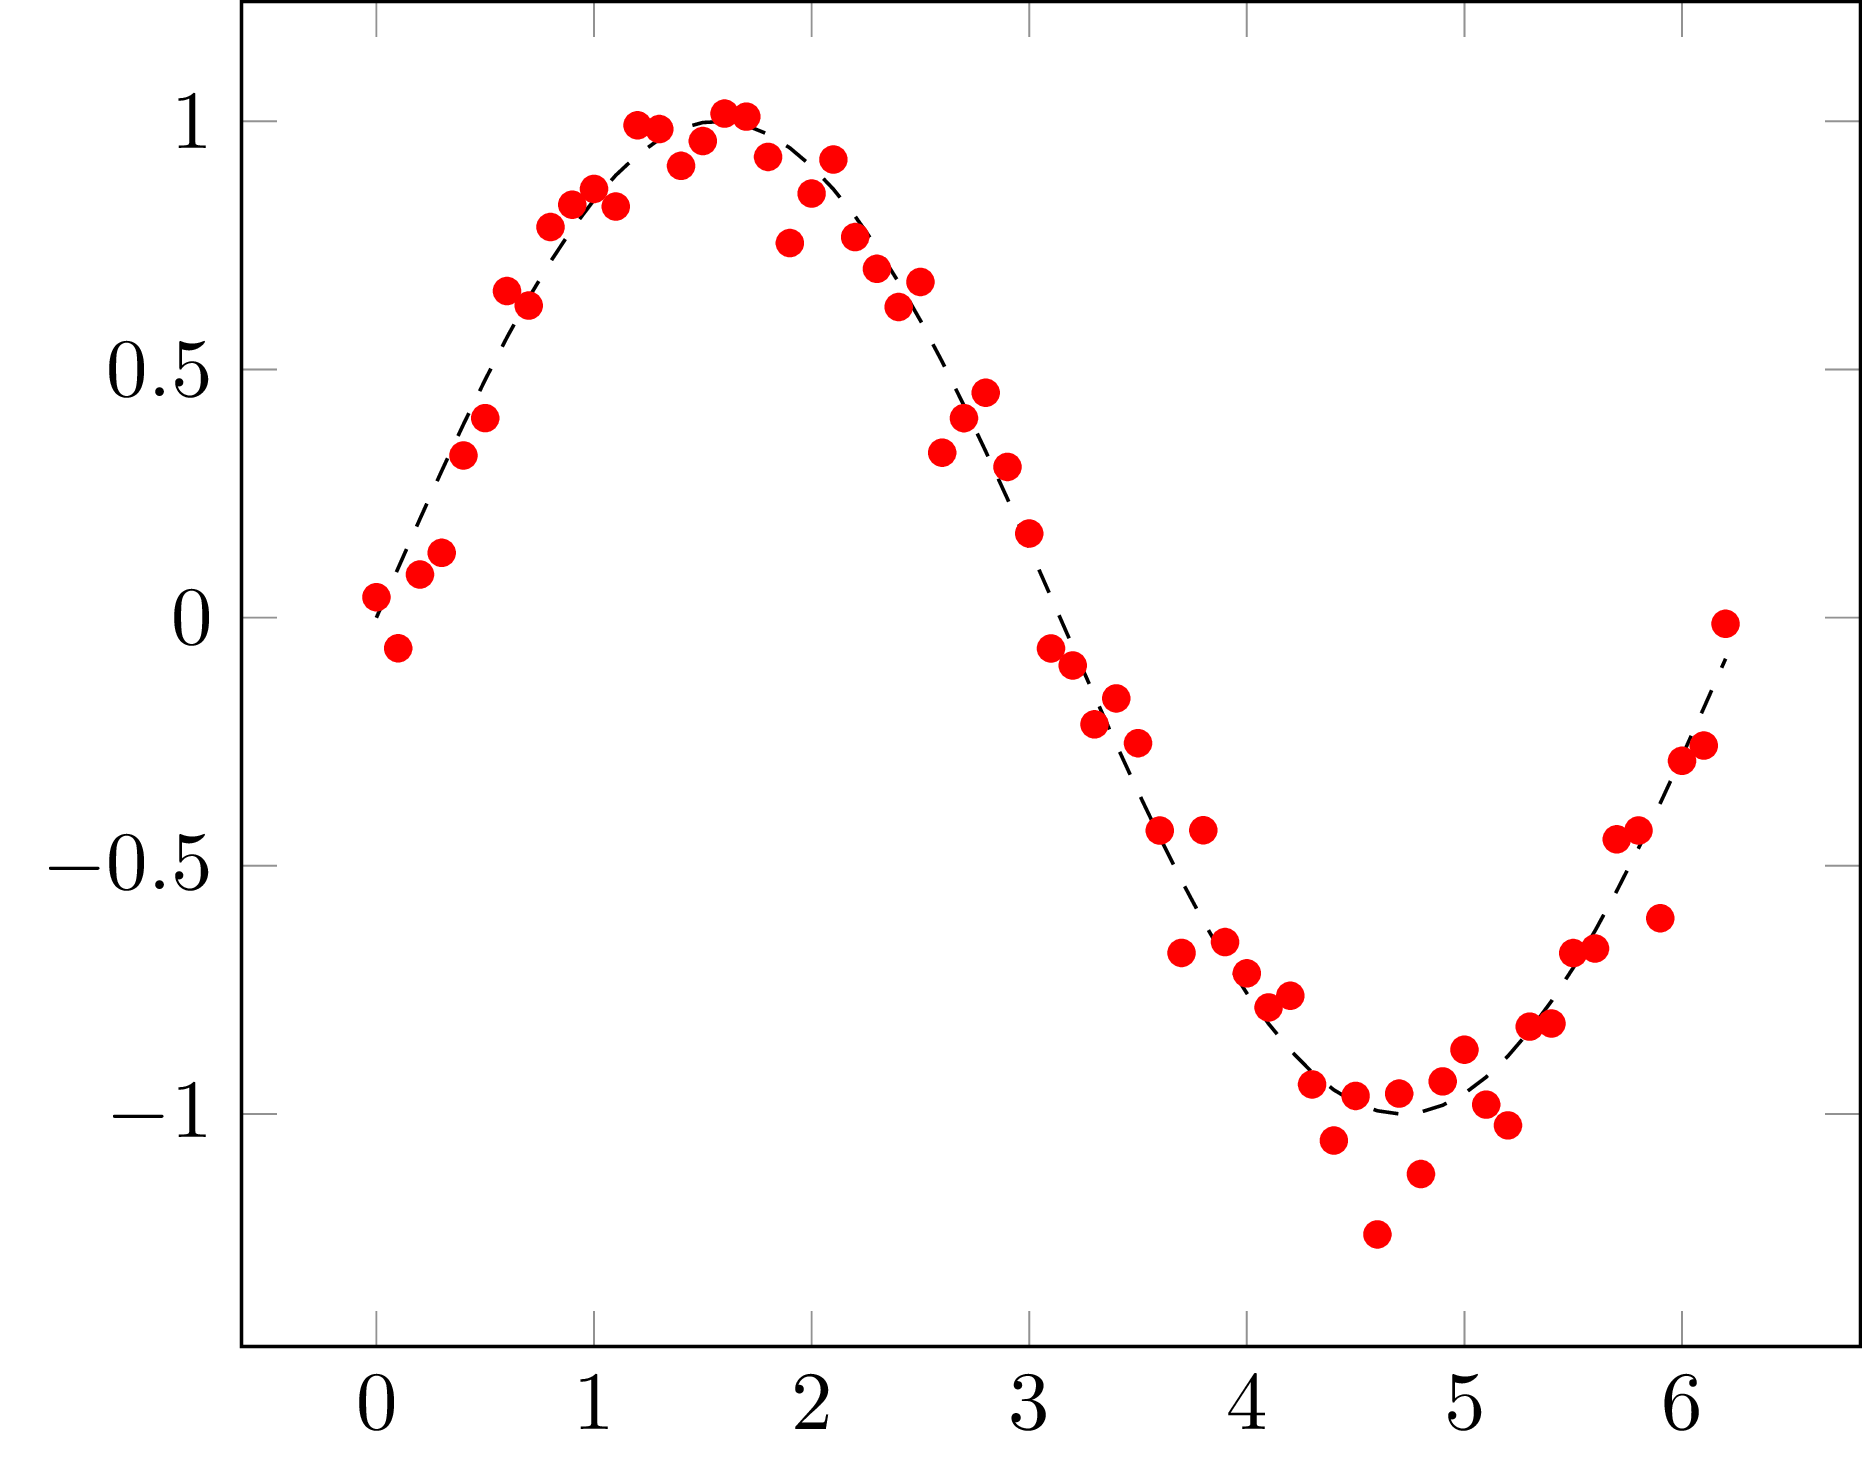
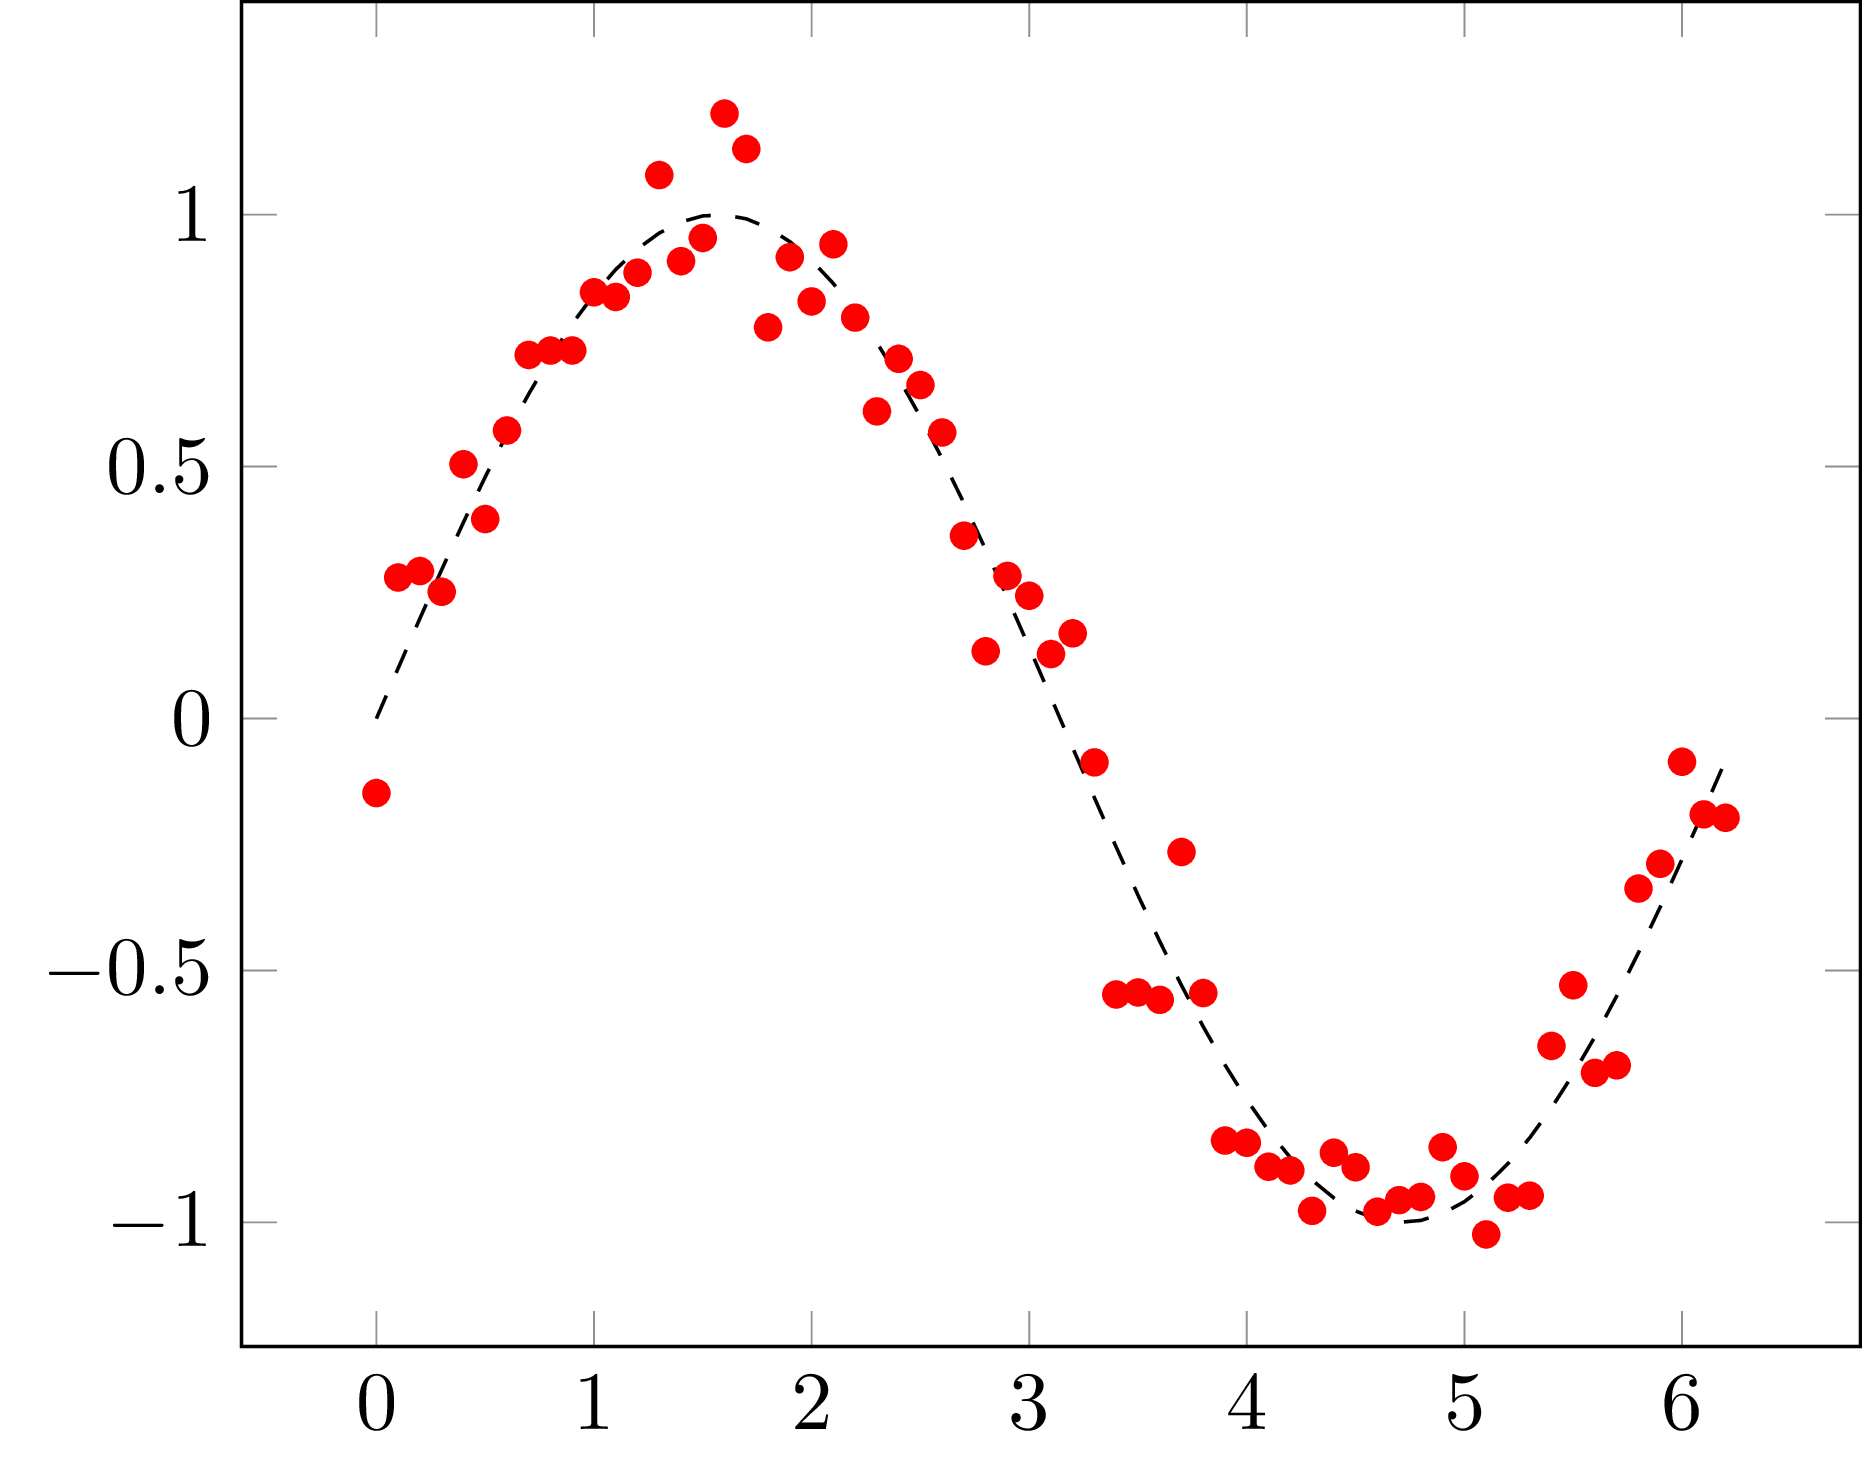
mesh plots and docs updates

diff --git a/docs/examples.md b/docs/examples.md
@@ -4,11 +4,11 @@ Lets create a sine vs cosine plot:
 
 ```scala
 import math._
-import scalatikz.graphics.pgf.Figure
-import scalatikz.graphics.pgf.enums.LegendPos.SOUTH_WEST
-import scalatikz.graphics.pgf.enums.LineStyle.DASHED
+import scalatikz.pgf.plots.Figure
+import scalatikz.pgf.plots.enums.LegendPos.SOUTH_WEST
+import scalatikz.pgf.plots.enums.LineStyle.DASHED
 
-val domain = -2 * Pi to 2 * Pi by 0.1
+val domain = BigDecimal(-2 * Pi) to BigDecimal(2 * Pi) by 0.1
 
 Figure("sin_vs_cosine")
   .plot(domain -> sin _)
@@ -27,21 +27,21 @@ Lets create a plot of Gaussian distributions:
 
 ```scala
 import math._
-import scalatikz.graphics.pgf.Figure
-import scalatikz.graphics.pgf.enums.Color.{BLACK, BLUE, GREEN, RED, YELLOW}
-import scalatikz.graphics.pgf.enums.FontSize.FOOTNOTE
-import scalatikz.graphics.pgf.enums.LegendPos.NORTH_EAST
+import scalatikz.pgf.plots.Figure
+import scalatikz.pgf.plots.enums.Color.{ BLACK, BLUE, GREEN, RED, YELLOW }
+import scalatikz.pgf.plots.enums.FontSize.FOOTNOTE
+import scalatikz.pgf.plots.enums.LegendPos.NORTH_EAST
 
 def gaussian(mean: Double, variance: Double)(x: Double): Double =
     1 / sqrt(2 * Pi * variance) * exp( -pow(x - mean, 2) / (2 * variance))
 
-val x = -5.0 to 5.0 by 0.1
+val x = BigDecimal(-5) to BigDecimal(5) by 0.1
 
 Figure("gaussian")
-  .plot(color = BLUE, smooth = true)(x -> gaussian(0, 0.2) _)
-  .plot(color = RED)(x -> gaussian(0, 1) _)
-  .plot(color = YELLOW!70!BLACK)(x -> gaussian(0, 5) _)
-  .plot(color = GREEN)(x -> gaussian(-2, 0.5) _)
+  .plot(lineColor = BLUE, smooth = true)(x -> gaussian(0, 0.2) _)
+  .plot(lineColor = RED)(x -> gaussian(0, 1) _)
+  .plot(lineColor = YELLOW!70!BLACK)(x -> gaussian(0, 5) _)
+  .plot(lineColor = GREEN)(x -> gaussian(-2, 0.5) _)
   .havingXLabel("$X$")
   .havingXLimits(-5, 5)
   .havingMajorGridOn
@@ -63,10 +63,10 @@ Lets plot an area:
 
 ```scala
 import math._
-import scalatikz.graphics.pgf.Figure
-import scalatikz.graphics.pgf.enums.LineSize.VERY_THIN
+import scalatikz.pgf.plots.Figure
+import scalatikz.pgf.plots.enums.LineSize.VERY_THIN
 
-val xx = 0.0 to 1.0 by 0.01
+val xx = BigDecimal(0) to BigDecimal(1) by 0.01
 
 Figure("area")
   .area(lineSize = VERY_THIN, opacity = 0.2) {
@@ -81,17 +81,17 @@ Lets plot a line and then plot a scatter of points along the line:
 ```scala
 import math._
 import scala.util.Random
-import scalatikz.graphics.pgf.Figure
-import scalatikz.graphics.pgf.enums.Color.{BLACK, RED}
-import scalatikz.graphics.pgf.enums.LineStyle.DASHED
+import scalatikz.pgf.plots.Figure
+import scalatikz.pgf.plots.enums.Color.{ BLACK, RED }
+import scalatikz.pgf.plots.enums.LineStyle.DASHED
 
-val xs = 0.0 to 2 * Pi by 0.1
+val xs = BigDecimal(0) to BigDecimal(2) * Pi by 0.1
 
 Figure("spline")
-  .plot(color = BLACK, lineStyle = DASHED)(xs -> sin _)
+  .plot(lineColor = BLACK, lineStyle = DASHED)(xs -> sin _)
   .scatter(markFillColor = RED, markSize = 1.5) {
     xs -> ((x: Double) => sin(x) + 0.1 * Random.nextGaussian)
-  }.saveAsPNG("images")
+  }.show()
 ```
 
 ![spline](../images/spline.png)
@@ -100,16 +100,16 @@ Lets plot a set of sinus functions and add some dark background to make the plot
 
 ```scala
 import math._
-import scalatikz.graphics.pgf.Figure
-import scalatikz.graphics.pgf.enums.Color.BLACK
-import scalatikz.graphics.pgf.enums.Mark.DOT
+import scalatikz.pgf.plots.Figure
+import scalatikz.pgf.plots.enums.Color.BLACK
+import scalatikz.pgf.plots.enums.Mark.DOT
 
-val xxs = 0.0 to 6.0 by 0.1
+val xxs = BigDecimal(0) to BigDecimal(6) by 0.1
 
 val figure = Figure("dark").havingBackgroundColor(BLACK!50)
 
 (1 to 6).foldLeft(figure) { case (fig, s) =>
-fig.plot(marker = DOT, markSize = 1.5)(xxs -> ((x: Double) => sin(x + s)))
+  fig.plot(marker = DOT, markSize = 1.5)(xxs -> ((x: Double) => sin(x + s)))
 }.show()
 ```
 
@@ -120,16 +120,16 @@ Lets plot a stem function and a line passing through the stems:
 ```scala
 import math._
 import scala.util.Random
-import scalatikz.graphics.pgf.Figure
-import scalatikz.graphics.pgf.enums.Color.{BLACK, BLUE, GREEN}
-import scalatikz.graphics.pgf.enums.LineStyle.DASHED
-import scalatikz.graphics.pgf.enums.Mark.CIRCLE
+import scalatikz.pgf.plots.Figure
+import scalatikz.pgf.plots.enums.Color.{ BLACK, BLUE, GREEN }
+import scalatikz.pgf.plots.enums.LineStyle.DASHED
+import scalatikz.pgf.plots.enums.Mark.CIRCLE
 
 val randomPoints = (1 to 20).map(_ => Random.nextDouble)
 
 Figure("stem")
-  .stem(color = BLUE!50!BLACK, marker = CIRCLE)(randomPoints)
-  .plot(color = GREEN!50!BLACK, lineStyle = DASHED, smooth = true)(randomPoints)
+  .stem(lineColor = BLUE!50!BLACK, marker = CIRCLE)(randomPoints)
+  .plot(lineColor = GREEN!50!BLACK, lineStyle = DASHED, smooth = true)(randomPoints)
   .show()
 ```
 
@@ -140,15 +140,15 @@ Lets plot a line having random error bars:
 ```scala
 import math._
 import scala.util.Random
-import scalatikz.graphics.pgf.Figure
-import scalatikz.graphics.pgf.enums.AxisLinePos.{BOTTOM, LEFT}
-import scalatikz.graphics.pgf.enums.Color.{BLACK, BLUE}
+import scalatikz.pgf.plots.Figure
+import scalatikz.pgf.plots.enums.AxisLinePos.{ BOTTOM, LEFT }
+import scalatikz.pgf.plots.enums.Color.{ BLACK, BLUE }
 
 Figure("error_bar")
   .errorBar(BLUE!50!BLACK) {
-    (0.0 to 1.0 by 0.1) -> ((x: Double) => x / 2)
+    (BigDecimal(0) to BigDecimal(1) by 0.1) -> ((x: Double) => x / 2)
   } {
-    (1 to (0.0 to 1.0 by 0.1).length).map(_ => 0.0 -> scala.util.Random.nextDouble)
+    (1 to (BigDecimal(0) to BigDecimal(1) by 0.1).length).map(_ => 0.0 -> scala.util.Random.nextDouble)
   }
   .havingTitle("Error bar")
   .havingXAxisLinePos(BOTTOM)
@@ -165,43 +165,75 @@ Lets create a bar plot for the function `y = x^2`:
 ```scala
 import math._
 import scala.util.Random
-import scalatikz.graphics.pgf.Figure
-import scalatikz.graphics.pgf.enums.Color.{WHITE, BLUE}
+import scalatikz.pgf.plots.Figure
+import scalatikz.pgf.plots.enums.Color.{ WHITE, BLUE }
 
 Figure("bar")
-  .bar(color = BLUE!80!WHITE)((-20 to 20).map(x => (x, x * x)))
+  .bar(barColor = BLUE!80!WHITE)((-20 to 20).map(x => (x, x * x)))
   .havingXLabel("$X$")
   .havingYLabel("$Y$")
-  .saveAsPNG("images")
+  .show()
 ```
 
 ![bar](../images/bar.png)
+
+Lets create a mesh plot for the function `y = x + sin(x)`:
+
+```scala
+import math._
+import scalatikz.pgf.plots.Figure
+import scalatikz.pgf.plots.enums.ColorMap
+
+val xc = BigDecimal(0) to BigDecimal(2) * Pi by 0.1
+
+Figure("mesh")
+  .mesh(xc -> ((x: Double) => x + math.sin(x)))
+  .havingColorMap(ColorMap.COOL)
+  .show()
+```
+
+![mesh](../images/mesh.png)
+
+Lets create a random scatter mesh:
+
+```scala
+import scala.util.Random
+import scalatikz.pgf.plots.Figure
+import scalatikz.pgf.plots.enums.ColorMap
+
+Figure("scatter_mesh")
+  .scatterMesh((0 to 100) -> ((x: Double) => x + Random.nextInt(10)))
+  .havingColorMap(ColorMap.ViRiDiS)
+  .show()
+```
+
+![scatter-mesh](../images/scatter_mesh.png)
 
 Next, lets plot an array of plots:
 
 ```scala
 import math._
-import scalatikz.graphics.pgf.Figure
-import scalatikz.graphics.pgf.enums.Color.{BLACK, BLUE, GREEN, YELLOW}
+import scalatikz.pgf.plots.Figure
+import scalatikz.pgf.plots.enums.Color.{ BLACK, BLUE, GREEN, YELLOW }
 
 Figure("array", 2, 2)
   .subFigure(0, 0) { x =>
-    x.plot((0.01 to 10.0 by 0.1) -> log _)
+    x.plot((BigDecimal(0.01) to BigDecimal(10) by 0.1) -> log _)
       .havingXLabel("$x$")
       .havingYLabel("$\\log(x)$")
   }
   .subFigure(0, 1) { x =>
-    x.plot(GREEN!40!BLACK)((-5.0 to 5.0 by 0.1) -> ((x: Double) => pow(x, 2)))
+    x.plot(GREEN!40!BLACK)((BigDecimal(-5) to BigDecimal(5) by 0.1) -> ((x: Double) => pow(x, 2)))
       .havingXLabel("$x$")
       .havingYLabel("$x^2$")
   }
   .subFigure(1, 0) { x =>
-    x.plot(YELLOW!BLACK)((0.0 to 1.0 by 0.1) -> ((x: Double) => x))
+    x.plot(YELLOW!BLACK)((BigDecimal(0) to BigDecimal(1) by 0.1) -> ((x: Double) => x))
       .havingXLabel("$x$")
       .havingYLabel("$y$")
   }
   .subFigure(1, 1) { x =>
-    x.plot(BLUE)((-5.0 to 5.0 by 0.1) -> ((x: Double) => pow(x, 3)))
+    x.plot(BLUE)((BigDecimal(-5) to BigDecimal(5) by 0.1) -> ((x: Double) => pow(x, 3)))
       .havingXLabel("$x$")
       .havingYLabel("$x^3$")
   }
@@ -213,8 +245,8 @@ Figure("array", 2, 2)
 Finally, lets plot a figure having two ordinates:
 
 ```scala
-import scalatikz.graphics.pgf.Figure
-import scalatikz.graphics.pgf.enums.Color.{RED, BLUE}
+import scalatikz.pgf.plots.Figure
+import scalatikz.pgf.plots.enums.Color.{ RED, BLUE }
 
 Figure("secondary_axis")
   .plot(lineColor = RED)((-5 to 5) -> ((x: Double) => 3 * x))
@@ -224,7 +256,7 @@ Figure("secondary_axis")
     .scatter(markStrokeColor = BLUE, markFillColor = BLUE)((-5 to 5) -> ((x: Double) => x * x))
     .havingYLabel("$x^2$")
   }
-  .saveAsPNG("images")
+  .show()
 ```
 
 ![plot-two-ordinates](../images/secondary_axis.png)
